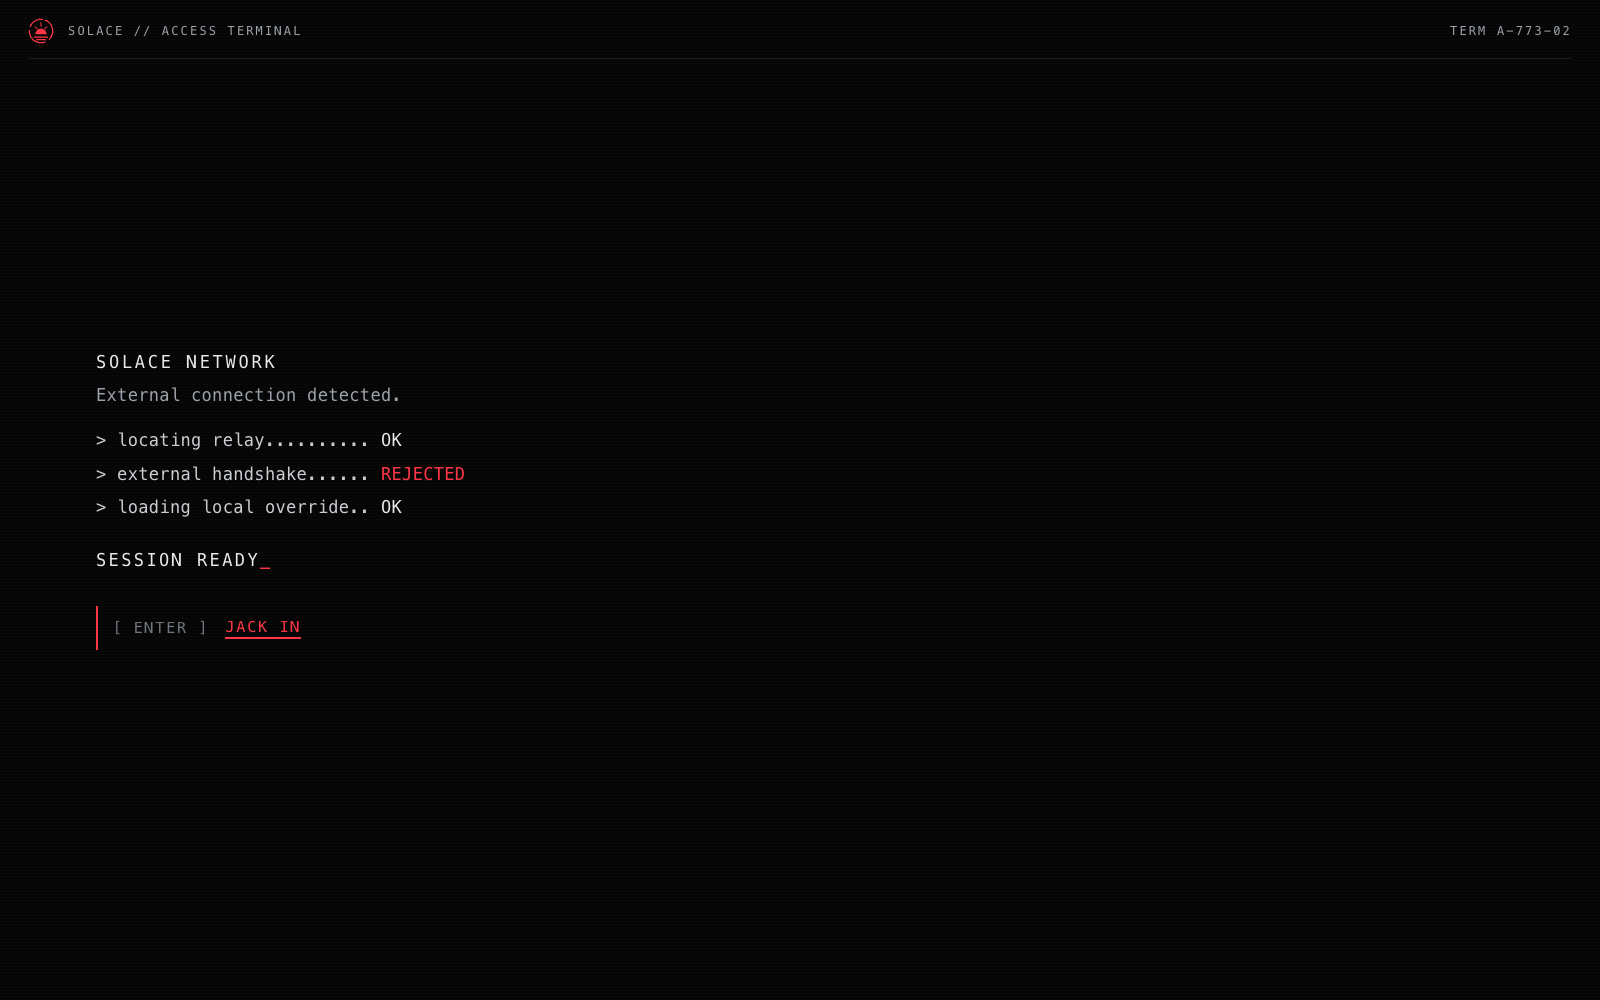
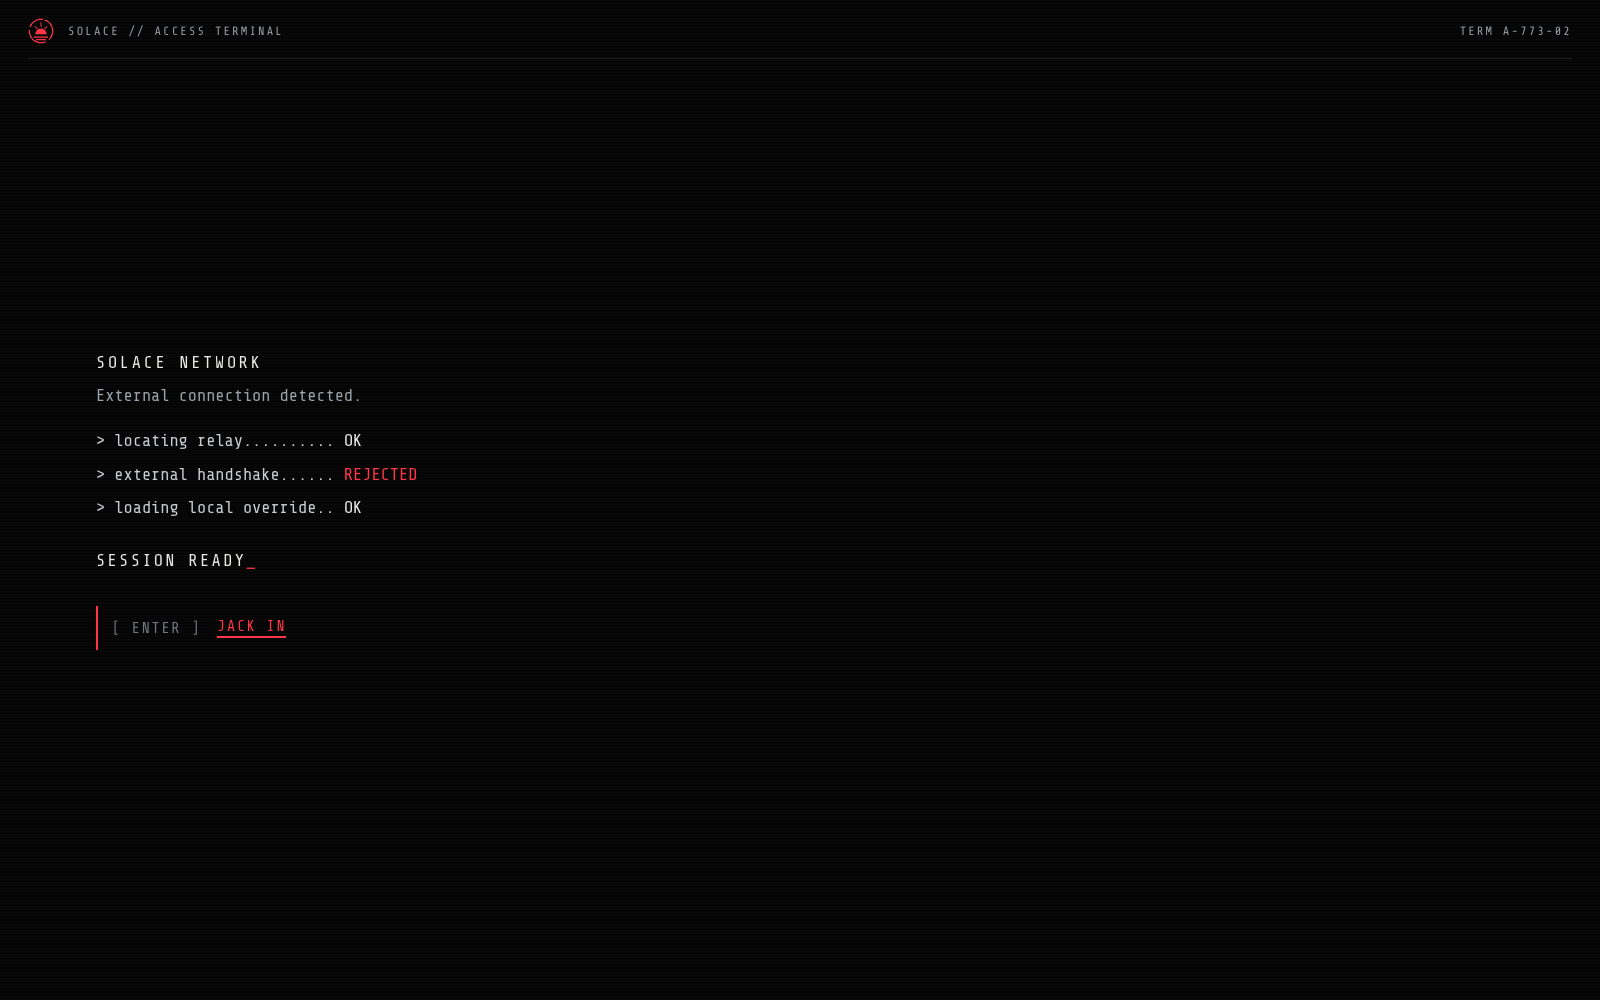
docs: changelog, README and roadmap for the one Solace style and the new area names (#34)

diff --git a/CHANGELOG.md b/CHANGELOG.md
@@ -26,12 +26,17 @@ Rules:
 - In the Mac app the radio can play your own Spotify playlists, one per station (Spotify Premium, PKCE login inside the app, no client secret; you paste the playlist links in the radio's "Spotify setup"). Set `SOLACE_SPOTIFY_CLIENT_ID` in `.env`. Without Spotify (browser, demo, Docker, no Client ID) the radio plays the 6 local Open Lo-Fi tracks as before. With no active Spotify device the glass says "OPEN SPOTIFY TO PLAY" with buttons to open Spotify or to play the local lofi; the radio never switches source on its own. Tokens stay in the app's own folder, never in the web page. See README "Desk radio".
 
 ### Changed
+- One Solace visual style. The whole app is one dark navy and purple "night room" like the desk: one token stylesheet (`frontend/src/styles/tokens.css`) holds the colours, fonts, type scale, spacing, borders, glows, layers and motion times, and the desk, the areas, the start screen and the toast all read it. Titles are Oxanium, labels and numbers are Share Tech Mono (never bold) and body text is Inter. Panels now wear a pixel-art frame, buttons have normal, hover and pressed art (40 px high, flat 32 px in dense rows), inputs are 40 px (32 px in the strength log), sub-tabs are an underlined rail instead of filled boxes, and cyan carries interaction while magenta is the one primary action (SYNC). The command bar shows the SOLACE wordmark and four area icons (also in the bottom bar on a phone), the toast is the same in every area (no more khaki version), and "server offline" and "loading" are a proper error panel with a retry button and a loading line. The desk looks the same (the one change inside it: the embedded school and library screens use the new shared style).
+- The areas are renamed: HOME is now DESK, COMBAT is BODY, MISSIONS is STUDY and ARCHIVES is SHELF (sub-tab names unchanged). The links are `#desk`, `#body`, `#study`, `#shelf` and `#body/vitals` (VITALS); every old link (`#home`, `#training/…`, `#school/…`, `#archives/…`, `#training/body`, the old Dutch `#school/schoolperiode` and `#school/examenperiode`) still opens the right place and is rewritten to the new name. `#body/status` opens STATUS.
+- README screenshots show the new style and the new area names (`docs/screenshots/body.png`, `shelf.png`).
 - README is shorter: the roadmap moved to the new `ROADMAP.md`, the Mac app details to `docs/mac-app.md`, the CLI is part of "Development", and the configuration table is replaced by a pointer to `.env.example`. The "Upgrading from ragnarok" note is removed.
 - The desk's route and timing helpers (interpolation, fades, repeating schedules) moved from the city code into a shared, tested module (`frontend/src/home/desk/motion.ts`) so other desk animations can reuse them. The city looks and moves exactly as before.
 - The desk is now a panoramic room: one large window fills most of the screen above a slim desk band, with no floor and no chair. The room is built from seven separate picture layers (sky, far, middle and near city, an empty billboard frame, the window frame and the desk); each time of day colours the sky and every city layer on its own. The window and the desk are fixed, every prop can still be moved, resized and hidden in EDIT LAYOUT, and the props now stand on the tabletop by default with the cat and its cushion on the right. The scene fills the viewport: on a wider screen some sky is cropped at the top, on a narrower one up to a small strip left and right, never the desk. The flying train and the hovercars fly between the city layers, behind the window frame. A desk layout saved earlier still opens: its moves and sizes now apply from the new default places, so a moved prop can end up in an odd spot; "Reset whole layout" (or "Reset object") followed by "Save layout" puts it back. Saved settings for the window and the desk surface are no longer used.
 - The desk keeps only the original style. The floor-companion artwork file now holds just the original cat. A saved desk layout that still names another style opens as the original without error.
 
 ### Removed
+- The YoRHa look: the khaki light and dark themes, the ☀/☾ theme toggle (a theme saved in the browser is ignored), the scanline/grid/vignette texture overlays, the inverted ink-filled bars and tabs, the corner brackets on panels and the sweep-in button fill.
+- JetBrains Mono (the two font files, the `@font-face` rules and its licence entry).
 - The headphones on the desk and the old side panel of the radio (mood buttons, track list, equaliser, mute-by-speaker). A saved desk layout that still names the headphones opens without error.
 - The old desk background (city plate, generated building rows and their signs, window frame, desk surface: about 8.5 MB of images) and the cat's windowsill spot; the panoramic layers (about 5.5 MB) replace them.
 - The "Warm study" and "Neon nights" desk styles: the sprite inventory picker, the "Change the whole desk vibe" buttons and the two style image files (about 4.7 MB).

diff --git a/README.md b/README.md
@@ -18,21 +18,23 @@ trademarks belong to their owners, and none of those names is used as the name o
 ![The start screen](docs/screenshots/start.png)
 
 ![The desk](docs/screenshots/desk.png)
-![COMBAT](docs/screenshots/combat.png)
-![ARCHIVES](docs/screenshots/archives.png)
+![BODY](docs/screenshots/body.png)
+![SHELF](docs/screenshots/shelf.png)
 
 You start on a "jack in" start screen. After you enter you land on your desk: a desk above a city, with tools you can
 open (school, terminal, library, biomonitor, Garmin sync, gym log, radio, scratchpad, small companions). You customise the
-desk yourself, and your key stats stay visible in a footer bar. From the desk you reach the main areas:
+desk yourself, and your key stats stay visible in a footer bar. From the desk you reach the main areas (the whole app is
+one dark style, there is no theme switch; the links `#desk`, `#body`, `#study` and `#shelf` open them, and the old
+`#home`, `#training`, `#school` and `#archives` links still work):
 
-- **COMBAT** (training)
+- **BODY** (training)
   - **STATUS**: your three stats, readiness (`go_hard` / `go_easy` / `rest`) and a weekly report (last week vs the week before).
   - **RUNS**: imported runs with heart-rate zones, pace, weather and shoe mileage.
   - **STRENGTH**: log gym sessions in a form (reps x kg, or seconds for holds like a plank); per-lift points for bench,
     squat and sumo deadlift.
   - **VITALS**: HRV, sleep, resting heart rate, Body Battery and weight, plus your goals (goal weight, body fat %, pace, weekly km).
-- **MISSIONS**: exams (Belgian /20 scale, resits, deliberation) and school tasks.
-- **ARCHIVES**: books and manga as Series, Volume, Copy and Purchase, with per-volume ownership and read status,
+- **STUDY**: exams (Belgian /20 scale, resits, deliberation) and school tasks.
+- **SHELF**: books and manga as Series, Volume, Copy and Purchase, with per-volume ownership and read status,
   box-set purchases and price estimates from a price table.
 
 On top of the training data sits a game-like stat layer: STAMINA, STRENGTH and LEANNESS (0 to 100), a daily readiness

diff --git a/ROADMAP.md b/ROADMAP.md
@@ -6,12 +6,12 @@
 - Docker (`docker compose up`, SQLite in a volume, optional Garmin)
 - Mac app (Electron, unsigned, built on your own Mac): see [`docs/mac-app.md`](docs/mac-app.md)
 - One desk style
+- One Solace visual style: one dark token layer, fonts, shared panels and buttons, the shell, and the areas renamed DESK, BODY, STUDY and SHELF (#34)
 - A living desk: a panoramic room, a walking cat, a real day/night cycle, lighting, city life and weather (#17)
 
 ## Next
 
-- One Solace visual style
-- Then COMBAT, MISSIONS and ARCHIVES restyled to it
+- BODY, STUDY and SHELF restyled to it, one area at a time
 
 ## Maybe later
 
